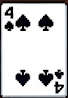
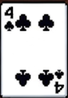
fix: troca o joker por uma imagem e corrige o quatro de paus

diff --git a/src/frontend/src/styles.css b/src/frontend/src/styles.css
@@ -60,7 +60,6 @@ main { padding: .6rem; }
 /* Cards are sprites cut from the card sheet; played cards land in the middle, hands are fanned over each player's own cards */
 .card { display: inline-grid; place-items: center; width: 2.6rem; aspect-ratio: 68 / 98; }
 .card.back { background: repeating-linear-gradient(45deg, #b3342b 0 3px, #8f2620 3px 6px); border: 2px solid var(--paper); box-shadow: 0 0 0 2px var(--ink); }
-.card.joker { background: var(--paper); border: 2px solid var(--ink); color: var(--red); font-weight: 700; font-size: clamp(7px, 1cqw, 11px); }
 /* Played cards: each one is turned to face its player (the top of the card points away from them) */
 .scene > .card { width: 3.4cqw; --rot: 0deg; transform: translate(-50%, -50%) rotate(var(--rot)); animation: drop .28s steps(4) both; filter: drop-shadow(0 .15cqw 0 #0007); }
 .card.bottom { --dx: 0px; --dy: 40px; --rot: 0deg; }
@@ -80,7 +79,6 @@ main { padding: .6rem; }
 .fan.right { transform: translate(-50%, -50%) rotate(-90deg); }
 .fan .card { width: 2.8cqw; margin: 0 -.5cqw; rotate: var(--r, 0deg); filter: drop-shadow(0 .15cqw 0 #0008); }
 .fan .card.back { border-width: 1px; box-shadow: 0 0 0 1px var(--ink); }
-.fan .joker { font-size: clamp(5px, .7cqw, 8px); }
 /* Connection state and the person's seat */
 .link { font-size: .85rem; align-self: center; } .link.on { color: var(--teamA); } .link.off { color: #ff9a8f; }
 .meta small { opacity: .6; }

diff --git a/src/frontend/src/App.jsx b/src/frontend/src/App.jsx
@@ -34,10 +34,11 @@ const MANILHAS = new Set(["7D", "AS", "7H", "4C"]);
 const pct = (x) => `${Math.round(x * 100)}%`;
 
 function Card({ card, back, area, style }) {
-  const cls = ["card", area, back && "back", card?.rank === "JK" && "joker"].filter(Boolean).join(" ");
+  const cls = ["card", area, back && "back"].filter(Boolean).join(" ");
   if (back) return <span className={cls} style={style} />;
-  if (card.rank === "JK") return <span className={cls} style={style}>JOKER</span>;
-  const file = MANILHAS.has(card.rank) ? `m_${card.rank}` : `${card.rank}_${card.suit}`;
+  const file = card.rank === "JK"
+    ? "JK"
+    : MANILHAS.has(card.rank) ? `m_${card.rank}` : `${card.rank}_${card.suit}`;
   return <img className={cls} style={style} src={`/cards/${file}.png`} alt={card.rank} title={card.rank === "4C" ? "Zap" : card.rank} />;
 }
 
@@ -225,7 +226,7 @@ export default function App() {
 
   const st = useMemo(() => events.slice(0, cursor).reduce(step, initial), [events, cursor]);
   const me = st.seats.find((x) => x.human);
-  const reveal = !me || showHands;
+  const reveal = showHands;
   const offset = me ? st.seats.indexOf(me) : 0; // whoever plays sits at the bottom
 
   // Playing, the agents' hands and minds start hidden; watching, everything starts open
